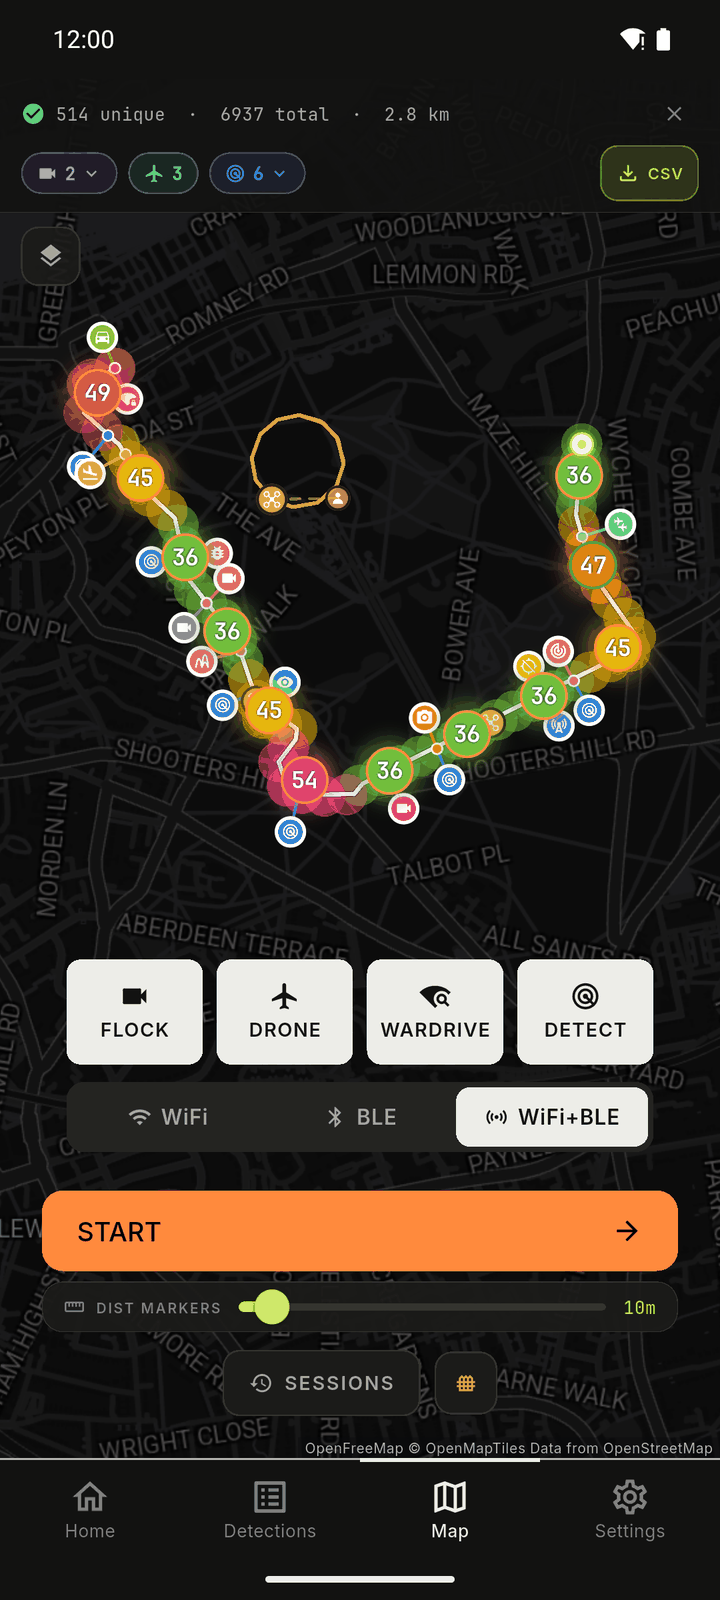
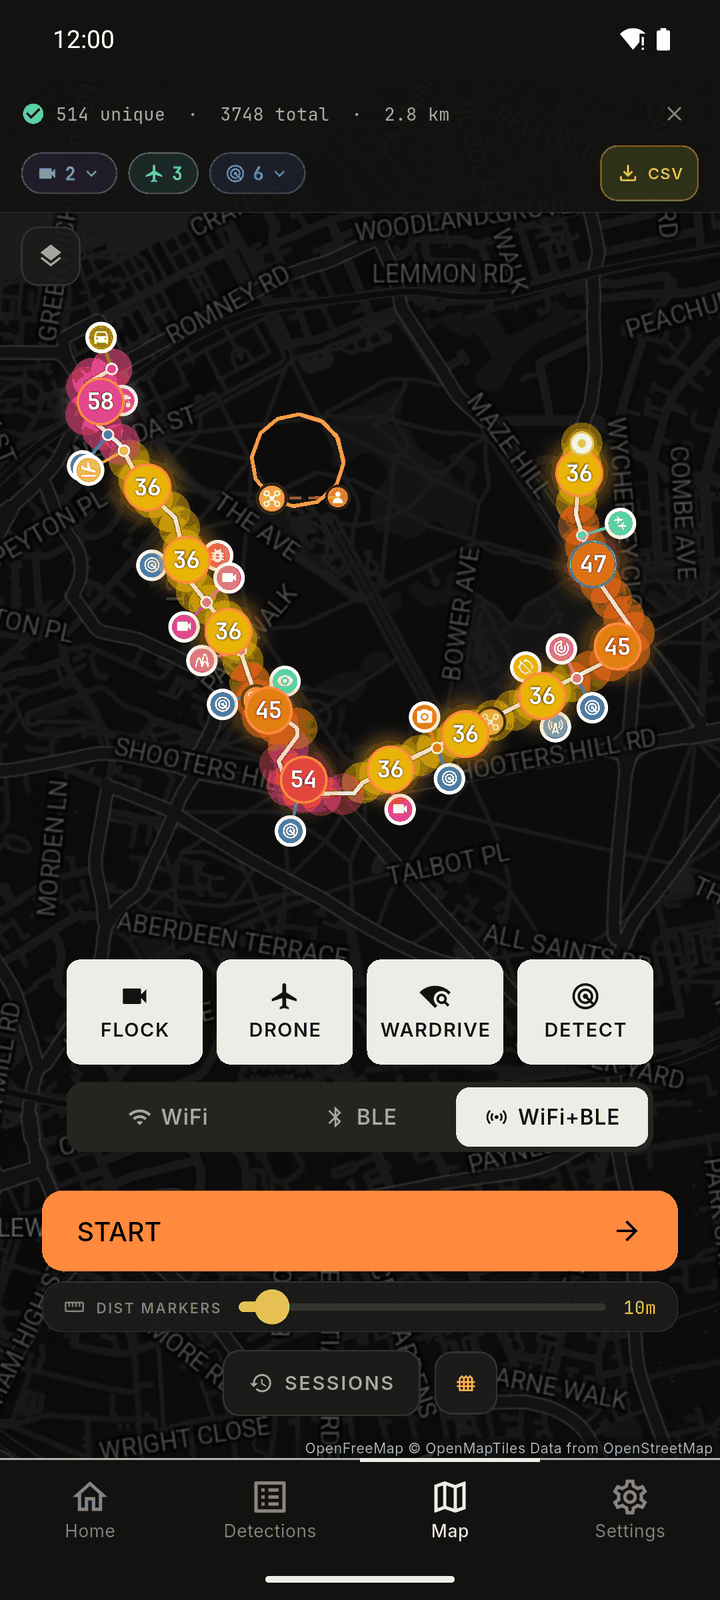
docs: map, sessions, report, tips

diff --git a/companion/lib/smoke_hook.dart b/companion/lib/smoke_hook.dart
@@ -147,14 +147,14 @@ void _inject(ProviderContainer container) {
 
   (double, double) placeOf(String mac) => heardAt.putIfAbsent(mac, fixNow);
   void send(String label, List<int> frame) {
-    final mac = frame.sublist(1, 7).map((b) => b.toRadixString(16).padLeft(2, '0')).join(':');
-    final at = placeOf(mac);
-    ble.updateGps(latitude: at.$1, longitude: at.$2, accuracy: 5);
+    final (lat, lon) = fixNow();
+    ble.updateGps(latitude: lat, longitude: lon, accuracy: 5);
     ble.injectDetectionFrame(frame);
     counts[label] = (counts[label] ?? 0) + 1;
   }
 
-  debugPrint('SMOKE: injecting for ${_seconds}s, devices placed where first heard');
+  final win = math.max(8, (_seconds * 0.08).round());
+  debugPrint('SMOKE: injecting for ${_seconds}s, each device heard for ${win}s at the current fix');
   var waitedForFix = 0;
   Timer.periodic(const Duration(seconds: 1), (t) {
     if (tick == 0 && container.read(gpsProvider).lastPosition == null && waitedForFix++ < 20) return;
@@ -173,13 +173,17 @@ void _inject(ProviderContainer container) {
       send('wifi_ap', smokeFrame(Engine.wardrive, mac, -60 - i - r, 1 + (block + i) % 11, 0,
           _wardriveExt(ssids[(block * 6 + i) % ssids.length], 3 + ((block + i) % 3), '')));
     }
-    for (var i = 0; i < 2; i++) {
-      send('wifi_client', smokeFrame(Engine.wardrive, '02:00:00:00:02:0$i', -70 - r, 1, 2,
-          [..._wardriveExt('', 0, ''), ..._mac('02:00:00:00:01:00')]));
-    }
-    for (var i = 0; i < 3; i++) {
-      send('wifi_mesh', smokeFrame(Engine.wardrive, '02:00:00:00:0a:0$i', -66 - i - r, 11, 0,
-          _wardriveExt('Parkside Mesh', 3, '')));
+    int at(double share) => (_seconds * share).round();
+    bool inRange(double share) => tick >= at(share) && tick < at(share) + win;
+    if (inRange(0)) {
+      for (var i = 0; i < 2; i++) {
+        send('wifi_client', smokeFrame(Engine.wardrive, '02:00:00:00:02:0$i', -70 - r, 1, 2,
+            [..._wardriveExt('', 0, ''), ..._mac('02:00:00:00:01:00')]));
+      }
+      for (var i = 0; i < 3; i++) {
+        send('wifi_mesh', smokeFrame(Engine.wardrive, '02:00:00:00:0a:0$i', -66 - i - r, 11, 0,
+            _wardriveExt('Parkside Mesh', 3, '')));
+      }
     }
     const bleNames = [
       'Galaxy Buds2', 'Charge 6', 'JBL Flip 6', 'Apple Watch', 'Tile', 'Bose QC45',
@@ -192,12 +196,11 @@ void _inject(ProviderContainer container) {
       send('ble_adv', smokeFrame(Engine.wardrive, mac, -65 - r, 37, 1,
           _wardriveExt('', 0, bleNames[(block * 3 + i) % bleNames.length])));
     }
-    int at(double share) => (_seconds * share).round();
-    if (tick >= at(0.25)) {
+    if (inRange(0.25)) {
       send('flockBle', smokeFrame(Engine.flockBle, '02:00:00:00:04:00', -55 - r, 37, 1,
           _flockExt(raven: true, fw: '1.3.2', signals: 0x47, name: 'Penguin-1234567890')));
     }
-    if (tick >= at(0.55)) {
+    if (inRange(0.55)) {
       send('flockWifi', smokeFrame(Engine.flockWifi, '02:00:00:00:04:01', -58 - r, 6, 4,
           _flockExt(raven: false, fw: '', signals: 0x05, name: 'Flock-A1B2C3')));
     }
@@ -212,7 +215,7 @@ void _inject(ProviderContainer container) {
     var k = 0;
     for (final e in detectors.entries) {
       final (method, ch, desc) = e.value;
-      if (tick >= at(0.08 + k * 0.13)) {
+      if (inRange(0.08 + k * 0.13)) {
         send('detector:${e.key}', smokeFrame(Engine.detector, '02:00:00:00:05:0$k', -50 - k - r, ch, method,
             _detectorExt(desc, 1 + k % 3)));
       }
@@ -232,7 +235,7 @@ void _inject(ProviderContainer container) {
       heading: ((orbit * 180 / math.pi + 90) % 360).round(),
       selfId: 'Survey flight',
     )));
-    if (tick >= at(0.35)) {
+    if (inRange(0.35)) {
       final hover = placeOf('02:00:00:00:06:01');
       send('drone_partial', smokeFrame(Engine.skySpy, '02:00:00:00:06:01', -75 - r, 6, 0, smokeOdidExt(
         uavId: 'DEMO9Z8Y7X6W5V',
@@ -248,12 +251,12 @@ void _inject(ProviderContainer container) {
         selfId: '',
       )));
     }
-    if (tick >= at(0.85)) {
+    if (inRange(0.85)) {
       send('uniPwn', smokeFrame(Engine.uniPwn, '02:00:00:00:07:00', -68 - r, 37, 0,
           [..._str('Go2', 8), 0]));
       send('foxhunter', smokeFrame(Engine.foxhunter, '02:00:00:00:08:00', -45 - r, 37, 0, const []));
     }
-    if (tick >= at(0.65)) {
+    if (inRange(0.65)) {
       final hover = placeOf('02:00:00:00:06:02');
       ble.addPhoneOdid('02:00:00:00:06:02', -70 - r, smokePhoneOdidAdv(hover.$1, hover.$2, tick));
       counts['phone_odid'] = (counts['phone_odid'] ?? 0) + 1;

diff --git a/README.md b/README.md
@@ -12,7 +12,7 @@
 </div>
 
 <div align="center">
-<b>OUI-APEX detects surveillance hardware, trackers and drones.</b> It also works as a wardriving and recon tool. 
+<b>OUI-APEX detects surveillance hardware, trackers and drones.</b> Wardriving and recon app with support for external USB devices.
 <p>
 
 <a href="#quick-start"><b>Quick start</b></a> &middot; <a href="#a-tour-of-the-app"><b>Tour</b></a> &middot; <a href="#engines"><b>Engines</b></a> &middot; <a href="#boards"><b>Boards</b></a> &middot; <a href="#mesh"><b>Mesh</b></a> &middot; <a href="#usb-radios-on-android"><b>USB radios</b></a>
@@ -28,7 +28,7 @@
 | Platform | Phone scans | Detects on its own (no board) | Add-ons |
 |---|---|---|---|
 | Android | Bluetooth, Wi-Fi | Wi-Fi networks and Bluetooth devices, sorted into types such as trackers, cameras, glasses and hacking tools. Drones that send Remote ID over Bluetooth or Wi-Fi. Phones with Wi-Fi Aware also catch drones that send it that way | ESP32 board(s), RTL-SDR, USB Wi-Fi adapter |
-| iPhone / macOS | Bluetooth | Bluetooth devices, sorted into types. Drones are not detected without a board. Use a board running Sky Spy | ESP32 board(s) |
+| iPhone / macOS | Bluetooth | Bluetooth devices, sorted into types. Does not detect drones without an ESP32 | ESP32 board(s) |
 
 </div>
 
@@ -168,28 +168,73 @@ Choose which device types alert you. Every alert lands in one list.
 
 ### Map
 
-Every hit is placed where you heard it. The numbers are how many hits share a spot.
+Every hit is placed where you heard it, along your route. The numbers are how many hits share a spot.
 
 <table>
   <tr>
-    <td width="50%" valign="top"><img width="300" src="docs/screenshots/tour/09-map.png" alt="Map during a wardrive" />
+    <td width="50%" valign="top"><img width="300" src="docs/screenshots/tour/10-map-list.png" alt="Map during a wardrive with the Flock list open" />
       <ol>
         <li><b>Session</b>: time recording, and counts of Wi-Fi, Flock, drone, detector and BLE hits.</li>
-        <li><b>Layers</b>: map style and extra layers.</li>
-        <li><b>Show on map</b>: Flock, drone and detector hits.</li>
-        <li><b>Sources</b>: hits per radio, such as this phone or a board.</li>
-        <li><b>Lists</b>: Flock, drone and detector hits. Tap one to open it.</li>
-        <li><b>A cluster</b>: tap it to list the devices there.</li>
-        <li><b>Drive</b>: distance, speed, hits per km, and Stop / Pause.</li>
-        <li><b>DEVICES</b>: the full list for this session.</li>
-      </ol></td>
-    <td width="50%" valign="top"><img width="300" src="docs/screenshots/tour/10-map-list.png" alt="Detector hits list on the map" />
-      <ol>
-        <li><b>Detector list</b>: tap the chip to open or close it.</li>
+        <li><b>Flock list</b>: tap the chip to open or close it. Drones and detector hits have their own.</li>
         <li><b>Each hit</b>: its name, type, address and signal. Tap a row to zoom the map to it.</li>
+        <li><b>Drive</b>: distance, speed, hits per km, and Stop / Pause.</li>
+      </ol></td>
+    <td width="50%" valign="top"><img width="300" src="docs/screenshots/tour/09-map.png" alt="A saved wardrive session on the map" />
+      <ol>
+        <li><b>Saved session</b>: unique devices, total hits and distance.</li>
+        <li><b>Lists</b>: Flock, drone and detector hits from this session.</li>
+        <li><b>CSV</b>: export the session as a WiGLE CSV.</li>
+        <li><b>Layers</b>: map style and extra layers.</li>
+        <li><b>A drone</b>: its flight path and its pilot.</li>
+        <li><b>A cluster</b>: tap it to list the devices there.</li>
+        <li><b>Targets</b>: what the next session looks for.</li>
+        <li><b>Radio</b>: Wi-Fi, BLE or both.</li>
+        <li><b>START</b>: start a new session.</li>
+        <li><b>SESSIONS</b>: open, export or delete saved sessions.</li>
       </ol></td>
   </tr>
 </table>
+
+### Sessions and reports
+
+Every session is saved. Open one to replay it on the map, or open its report.
+
+<table>
+  <tr>
+    <td width="33%" valign="top"><img width="240" src="docs/screenshots/tour/13-sessions.png" alt="Saved sessions list" />
+      <ol>
+        <li><b>SELECT, IMPORT, CLEAR ALL</b>: pick several sessions, load a WiGLE CSV, or delete them all.</li>
+        <li><b>A session</b>: when, how long, how far, and its Wi-Fi, BLE, Flock, drone and detector counts. Tap it to replay it on the map.</li>
+        <li><b>REPORT</b>: opens the report.</li>
+        <li><b>CSV, DELETE</b>: export or remove this session.</li>
+      </ol></td>
+    <td width="33%" valign="top"><img width="240" src="docs/screenshots/tour/14-report.png" alt="Wardrive report, top" />
+      <ol>
+        <li><b>Session</b>: start time, length and distance.</li>
+        <li><b>Totals</b>: Wi-Fi networks, how many were new, and Bluetooth devices.</li>
+        <li><b>Route</b>: where you drove.</li>
+        <li><b>Wi-Fi networks</b>: new, seen before, hidden, and per band.</li>
+        <li><b>Share</b>: sends the report as text.</li>
+      </ol></td>
+    <td width="33%" valign="top"><img width="240" src="docs/screenshots/tour/15-report-detail.png" alt="Wardrive report, details" />
+      <ol>
+        <li><b>Security</b>: how many networks use each kind of security.</li>
+        <li><b>Top makers</b>: the most common device makers.</li>
+        <li><b>Detections</b>: Flock cameras, drones and watchlist hits.</li>
+        <li><b>Alerts</b>: every alert kind raised during the session. Further down, whether it was uploaded to WiGLE and WDGWars.</li>
+      </ol></td>
+  </tr>
+</table>
+
+### Tips
+
+- **Rename a board or mesh node:** go to SETTINGS → NODE → MESH → **Nodes**, tap the node, type a name of up to 32 characters, and tap **SAVE**. Leave it blank or tap **CLEAR** to go back to the node ID. The name is kept on this phone. You can also tap the pencil next to a board on the Connect screen after its first connection.
+- **Remove an old node:** in the same **Nodes** list, tap a node you no longer use and tap **FORGET**. The board you are connected to cannot be forgotten there.
+- **Forget a paired board:** hold it on the Connect screen.
+- **Too many notifications:** when alerts pile up within a minute, the app offers to turn off notifications for one noisy type. Its detections are still logged.
+- **Filter by maker:** on LIVE, tap a vendor in the strip above the list to show only its devices.
+- **Hide addresses for screenshots:** turn on **Mask identifiers on screen** in SETTINGS → Detection & Alerts → Privacy.
+- **What does this icon mean:** tap the info button on a screen. It explains each tab and icon there.
 
 ## Engines
 
